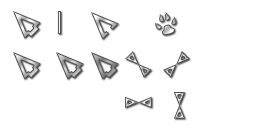
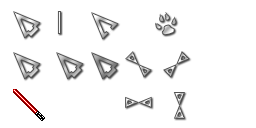
Added pointer and changed background color

Changed region(s): [[0.0312, 0.6875, 0.1875, 0.9375]]

diff --git a/RenderManager.cpp b/RenderManager.cpp
@@ -262,7 +262,7 @@ void RenderManager::init()
 
       //z-order (for possible overlapping), left, top, width, height
       viewport = window->addViewport(camera, 0, 0, 0, 1.0, 1.0);  //assign a camera to a viewport (can have many cameras and viewports in a single window)
-      viewport->setBackgroundColour(Ogre::ColourValue(0,0,0));
+	  viewport->setBackgroundColour(Ogre::ColourValue(.33, .33, .33, 1));
 
       float actual_width = Ogre::Real(viewport->getActualWidth());
       float actual_height = Ogre::Real(viewport->getActualHeight());
